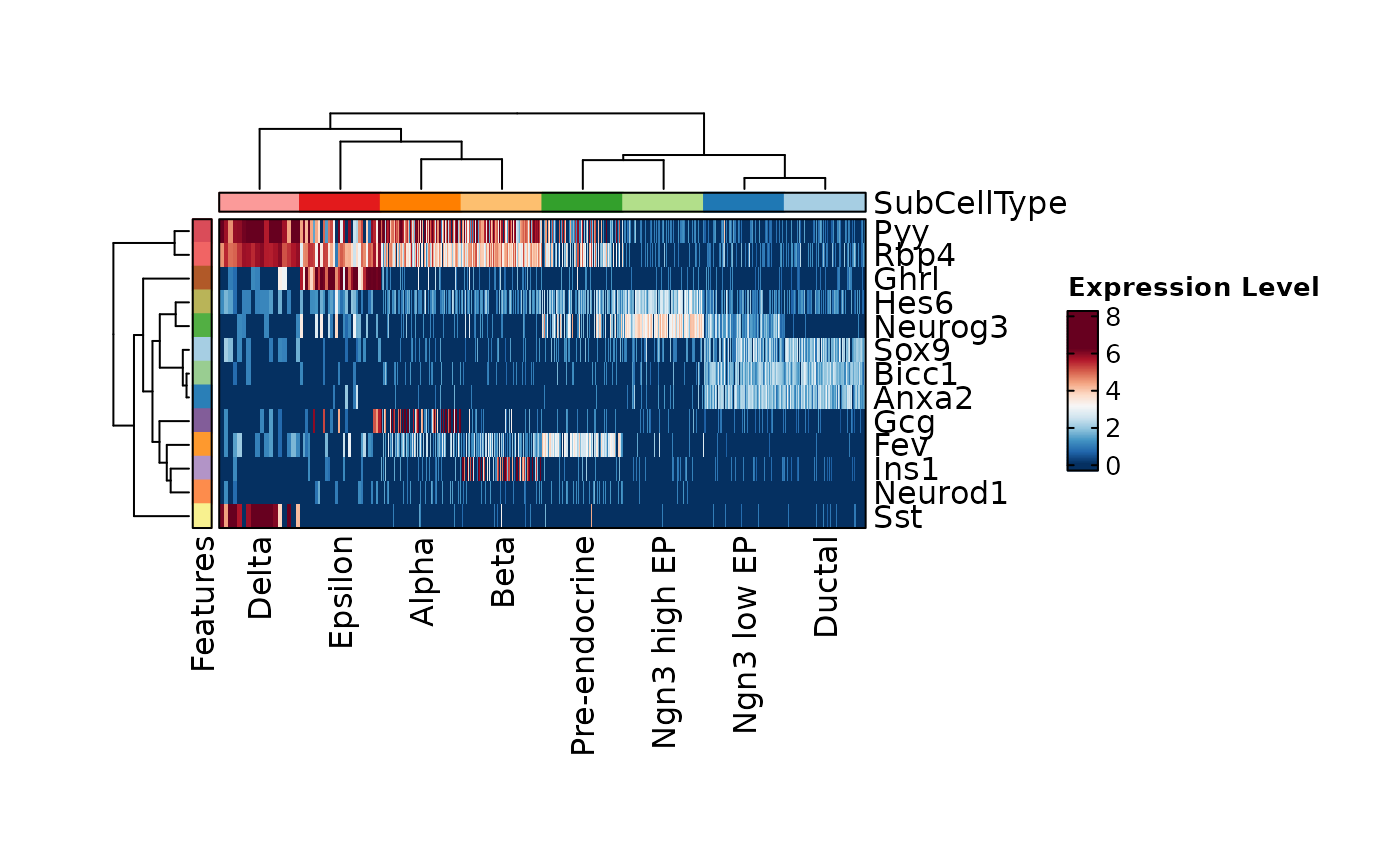
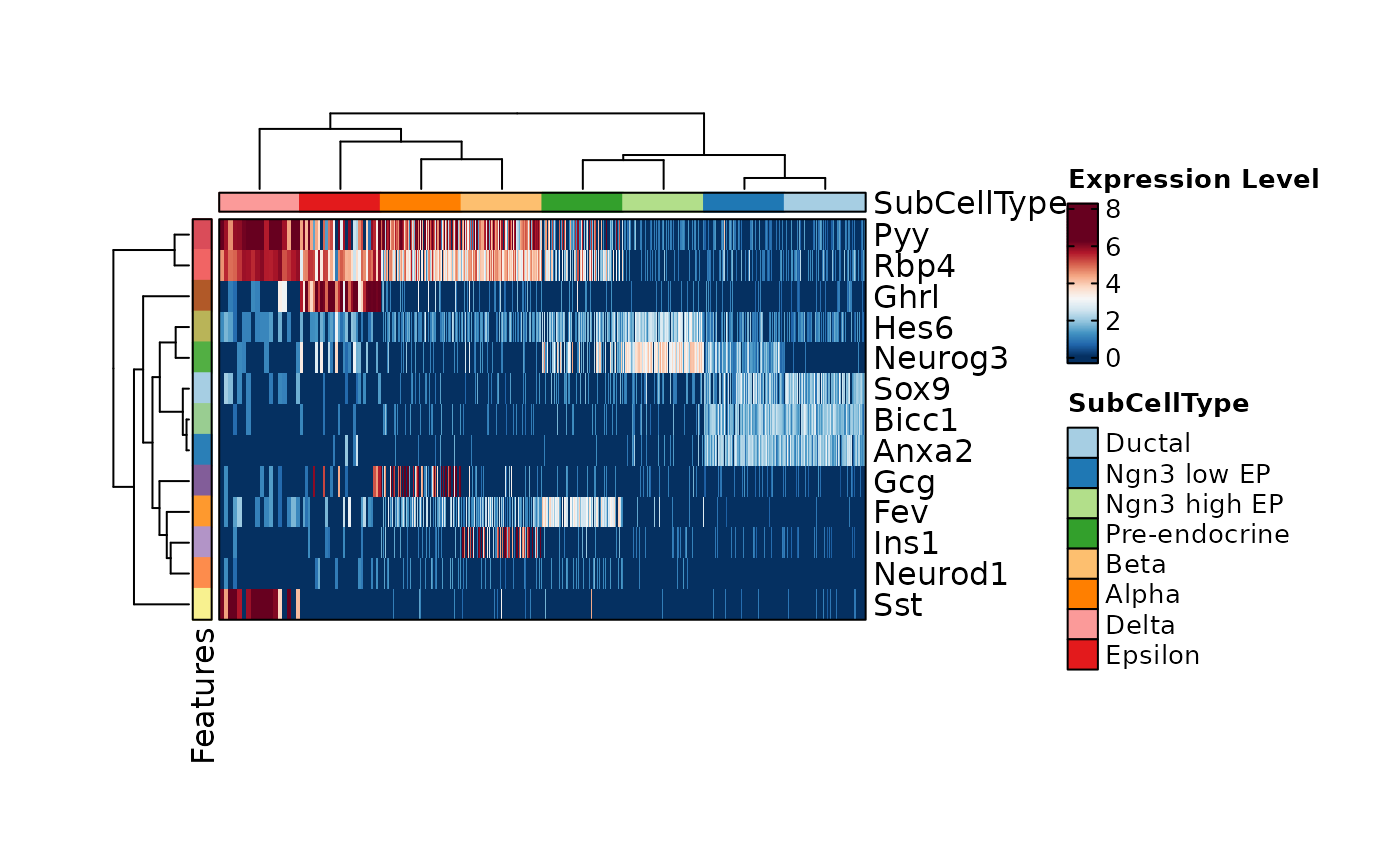
Deploying to gh-pages from @ pwwang/scplotter@87e796b87009132cb50573dd88968ded9eb89d80 🚀

Changed region(s): [[0.0921, 0.1871, 0.9521, 0.873]]

diff --git a/articles/Visualizing_data_with_LLMs.html b/articles/Visualizing_data_with_LLMs.html
@@ -297,7 +297,7 @@ for visualization.</p>
 <span><span class="co">#&gt; required to skim dataframes. Skim summary of dataframes currently not shown in</span></span>
 <span><span class="co">#&gt; prompt</span></span>
 <span><span class="co">#&gt; Code ran:</span></span>
-<span><span class="co">#&gt; CCCPlot(data = cellphonedb_res)</span></span></code></pre></div>
+<span><span class="co">#&gt; CCCPlot(cellphonedb_res)</span></span></code></pre></div>
 <p><img src="Visualizing_data_with_LLMs_files/figure-html/unnamed-chunk-6-1.png" class="r-plt" alt="" width="672"></p>
 <div class="sourceCode" id="cb7"><pre class="downlit sourceCode r">
 <code class="sourceCode R"><span><span class="co"># Previous conversation is memorized</span></span>
@@ -310,7 +310,7 @@ for visualization.</p>
 <span><span class="co">#&gt; required to skim dataframes. Skim summary of dataframes currently not shown in</span></span>
 <span><span class="co">#&gt; prompt</span></span>
 <span><span class="co">#&gt; Code ran:</span></span>
-<span><span class="co">#&gt; CCCPlot(data = cellphonedb_res, plot_type = "heatmap")</span></span></code></pre></div>
+<span><span class="co">#&gt; CCCPlot(cellphonedb_res, plot_type = "heatmap")</span></span></code></pre></div>
 <p><img src="Visualizing_data_with_LLMs_files/figure-html/unnamed-chunk-7-1.png" class="r-plt" alt="" width="672"></p>
 <div class="sourceCode" id="cb8"><pre class="downlit sourceCode r">
 <code class="sourceCode R"><span><span class="va">chat</span><span class="op">$</span><span class="fu">ask</span><span class="op">(</span><span class="st">"Add a proper title to the plot"</span><span class="op">)</span></span>
@@ -322,18 +322,18 @@ for visualization.</p>
 <span><span class="co">#&gt; required to skim dataframes. Skim summary of dataframes currently not shown in</span></span>
 <span><span class="co">#&gt; prompt</span></span>
 <span><span class="co">#&gt; Code ran:</span></span>
-<span><span class="co">#&gt; CCCPlot(data = cellphonedb_res, plot_type = "heatmap", title = "Cell-Cell Communication Heatmap")</span></span></code></pre></div>
+<span><span class="co">#&gt; CCCPlot(cellphonedb_res, plot_type = "heatmap", title = "Cell-Cell Communication")</span></span></code></pre></div>
 <p><img src="Visualizing_data_with_LLMs_files/figure-html/unnamed-chunk-8-1.png" class="r-plt" alt="" width="672"></p>
 <div class="sourceCode" id="cb9"><pre class="downlit sourceCode r">
 <code class="sourceCode R"><span><span class="co"># To fetch the previous conversation</span></span>
 <span><span class="co"># Note that the response from the LLM is simplified in the history</span></span>
 <span><span class="va">chat</span><span class="op">$</span><span class="fu">get_history</span><span class="op">(</span><span class="op">)</span></span>
-<span><span class="co">#&gt; [1] "User: Generate a cell-cell communication plot for the cellphonedb_res data."                                                                                               </span></span>
-<span><span class="co">#&gt; [2] "Assistant: tool - CCCPlot; data - scplotter::cellphonedb_res; code - CCCPlot(data = cellphonedb_res)"                                                                      </span></span>
-<span><span class="co">#&gt; [3] "User: Do a heatmap instead"                                                                                                                                                </span></span>
-<span><span class="co">#&gt; [4] "Assistant: tool - CCCPlot; data - scplotter::cellphonedb_res; code - CCCPlot(data = cellphonedb_res, plot_type = \"heatmap\")"                                             </span></span>
-<span><span class="co">#&gt; [5] "User: Add a proper title to the plot"                                                                                                                                      </span></span>
-<span><span class="co">#&gt; [6] "Assistant: tool - CCCPlot; data - scplotter::cellphonedb_res; code - CCCPlot(data = cellphonedb_res, plot_type = \"heatmap\", title = \"Cell-Cell Communication Heatmap\")"</span></span>
+<span><span class="co">#&gt; [1] "User: Generate a cell-cell communication plot for the cellphonedb_res data."                                                                                </span></span>
+<span><span class="co">#&gt; [2] "Assistant: tool - CCCPlot; data - scplotter::cellphonedb_res; code - CCCPlot(cellphonedb_res)"                                                              </span></span>
+<span><span class="co">#&gt; [3] "User: Do a heatmap instead"                                                                                                                                 </span></span>
+<span><span class="co">#&gt; [4] "Assistant: tool - CCCPlot; data - scplotter::cellphonedb_res; code - CCCPlot(cellphonedb_res, plot_type = \"heatmap\")"                                     </span></span>
+<span><span class="co">#&gt; [5] "User: Add a proper title to the plot"                                                                                                                       </span></span>
+<span><span class="co">#&gt; [6] "Assistant: tool - CCCPlot; data - scplotter::cellphonedb_res; code - CCCPlot(cellphonedb_res, plot_type = \"heatmap\", title = \"Cell-Cell Communication\")"</span></span>
 <span></span>
 <span><span class="co"># To clear the history</span></span>
 <span><span class="va">chat</span><span class="op">$</span><span class="fu">clear_history</span><span class="op">(</span><span class="op">)</span></span></code></pre></div>
@@ -2687,10 +2687,10 @@ to <code>TRUE</code> in the <code>ask()</code> method.</p>
 <span><span class="co">#&gt; Do not define these objects in your R code.</span></span></code></pre>
 <pre><code><span><span class="co">#&gt; <span style="font-weight: bold;">--- Receiving response from LLM provider: ---</span></span></span></code></pre>
 <pre><code><span><span class="co">#&gt; ```r</span></span>
-<span><span class="co">#&gt; CCCPlot(data = cellphonedb_res)</span></span>
+<span><span class="co">#&gt; CCCPlot(cellphonedb_res)</span></span>
 <span><span class="co">#&gt; ```</span></span></code></pre>
 <pre><code><span><span class="co">#&gt; Code ran:</span></span>
-<span><span class="co">#&gt; CCCPlot(data = cellphonedb_res)</span></span></code></pre>
+<span><span class="co">#&gt; CCCPlot(cellphonedb_res)</span></span></code></pre>
 <p><img src="Visualizing_data_with_LLMs_files/figure-html/unnamed-chunk-11-1.png" class="r-plt" alt="" width="672"></p>
 </div>
   </main><aside class="col-md-3"><nav id="toc" aria-label="Table of contents"><h2>On this page</h2>

diff --git a/articles/Visualizing_data_with_LLMs.md b/articles/Visualizing_data_with_LLMs.md
@@ -214,7 +214,7 @@ chat$ask("Generate a cell-cell communication plot for the cellphonedb_res data."
 #> required to skim dataframes. Skim summary of dataframes currently not shown in
 #> prompt
 #> Code ran:
-#> CCCPlot(data = cellphonedb_res)
+#> CCCPlot(cellphonedb_res)
 ```
 
 ![](Visualizing_data_with_LLMs_files/figure-html/unnamed-chunk-6-1.png)
@@ -230,7 +230,7 @@ chat$ask("Do a heatmap instead")
 #> required to skim dataframes. Skim summary of dataframes currently not shown in
 #> prompt
 #> Code ran:
-#> CCCPlot(data = cellphonedb_res, plot_type = "heatmap")
+#> CCCPlot(cellphonedb_res, plot_type = "heatmap")
 ```
 
 ![](Visualizing_data_with_LLMs_files/figure-html/unnamed-chunk-7-1.png)
@@ -245,7 +245,7 @@ chat$ask("Add a proper title to the plot")
 #> required to skim dataframes. Skim summary of dataframes currently not shown in
 #> prompt
 #> Code ran:
-#> CCCPlot(data = cellphonedb_res, plot_type = "heatmap", title = "Cell-Cell Communication Heatmap")
+#> CCCPlot(cellphonedb_res, plot_type = "heatmap", title = "Cell-Cell Communication")
 ```
 
 ![](Visualizing_data_with_LLMs_files/figure-html/unnamed-chunk-8-1.png)
@@ -254,12 +254,12 @@ chat$ask("Add a proper title to the plot")
 # To fetch the previous conversation
 # Note that the response from the LLM is simplified in the history
 chat$get_history()
-#> [1] "User: Generate a cell-cell communication plot for the cellphonedb_res data."                                                                                               
-#> [2] "Assistant: tool - CCCPlot; data - scplotter::cellphonedb_res; code - CCCPlot(data = cellphonedb_res)"                                                                      
-#> [3] "User: Do a heatmap instead"                                                                                                                                                
-#> [4] "Assistant: tool - CCCPlot; data - scplotter::cellphonedb_res; code - CCCPlot(data = cellphonedb_res, plot_type = \"heatmap\")"                                             
-#> [5] "User: Add a proper title to the plot"                                                                                                                                      
-#> [6] "Assistant: tool - CCCPlot; data - scplotter::cellphonedb_res; code - CCCPlot(data = cellphonedb_res, plot_type = \"heatmap\", title = \"Cell-Cell Communication Heatmap\")"
+#> [1] "User: Generate a cell-cell communication plot for the cellphonedb_res data."                                                                                
+#> [2] "Assistant: tool - CCCPlot; data - scplotter::cellphonedb_res; code - CCCPlot(cellphonedb_res)"                                                              
+#> [3] "User: Do a heatmap instead"                                                                                                                                 
+#> [4] "Assistant: tool - CCCPlot; data - scplotter::cellphonedb_res; code - CCCPlot(cellphonedb_res, plot_type = \"heatmap\")"                                     
+#> [5] "User: Add a proper title to the plot"                                                                                                                       
+#> [6] "Assistant: tool - CCCPlot; data - scplotter::cellphonedb_res; code - CCCPlot(cellphonedb_res, plot_type = \"heatmap\", title = \"Cell-Cell Communication\")"
 
 # To clear the history
 chat$clear_history()
@@ -2626,10 +2626,10 @@ chat$ask("Generate a cell-cell communication plot for the cellphonedb_res data."
     #> --- Receiving response from LLM provider: ---
 
     #> ```r
-    #> CCCPlot(data = cellphonedb_res)
+    #> CCCPlot(cellphonedb_res)
     #> ```
 
     #> Code ran:
-    #> CCCPlot(data = cellphonedb_res)
+    #> CCCPlot(cellphonedb_res)
 
 ![](Visualizing_data_with_LLMs_files/figure-html/unnamed-chunk-11-1.png)